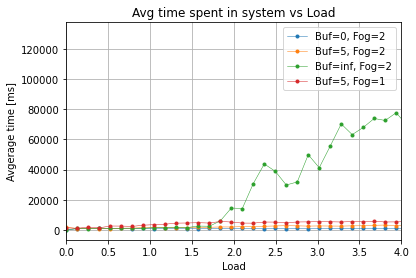
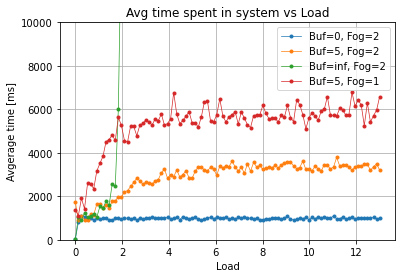
lab2 ex4c update

diff --git a/Lab1/ex3_sim.py b/Lab1/ex3_sim.py
@@ -16,6 +16,7 @@ if __name__ == '__main__':
     tot_time_sys = []
     tot_th_av_time_sys_list = []
     tot_pB_list = []
+    tot_av_buf_oc = []
     LOADS = np.linspace(1e-5,13,100).tolist()
     BUFFER_SIZES = [0,5,float('inf')]
     
@@ -26,6 +27,7 @@ if __name__ == '__main__':
         loss_pr = []
         time_sys = []
         pB_list = []
+        av_buf_oc = []
         th_av_time_sys_list = []
         
         for LOAD in LOADS:
@@ -49,11 +51,13 @@ if __name__ == '__main__':
             load_list.append(LOAD)
             loss_pr.append(data.toCloud/data.arr)
             time_sys.append(data.delay/data.dep)
+            av_buf_oc.append(data.bufferOccupancy/time)
             
         tot_loss_pr.append(loss_pr)
         tot_time_sys.append(time_sys)
         tot_th_av_time_sys_list.append(th_av_time_sys_list)
         tot_pB_list.append(pB_list)
+        tot_av_buf_oc.append(av_buf_oc)
         
     # Buf = 5, FOG_NODES = 1
     BUFFER_SIZE = 5
@@ -63,6 +67,7 @@ if __name__ == '__main__':
     loss_pr = []
     time_sys = []
     pB_list = []
+    av_buf_oc = []
     th_av_time_sys_list = []
     
     for LOAD in LOADS:
@@ -85,11 +90,13 @@ if __name__ == '__main__':
         load_list.append(LOAD)
         loss_pr.append(data.toCloud/data.arr)
         time_sys.append(data.delay/data.dep)
+        av_buf_oc.append(data.bufferOccupancy/time)
         
     tot_loss_pr.append(loss_pr)
     tot_time_sys.append(time_sys)
     tot_th_av_time_sys_list.append(th_av_time_sys_list)
     tot_pB_list.append(pB_list)
+    tot_av_buf_oc.append(av_buf_oc)
 
 
     #%% Plot statistics
@@ -100,7 +107,8 @@ if __name__ == '__main__':
               'Buf=inf, Fog=2', 'Buf=5, Fog=1']
     # Loss probability vs Load
     for i in range(len(tot_loss_pr)):
-        plt.plot(load_list, tot_loss_pr[i], '.-', linewidth=.7, c=colors[1][i], label=labels[i])
+        plt.plot(load_list, tot_loss_pr[i], '.-', linewidth=.7, 
+                 c=colors[1][i], label=labels[i])
     plt.grid()
     plt.legend()
     plt.xlabel("Load")
@@ -111,7 +119,8 @@ if __name__ == '__main__':
     
     # Loss probability vs Load (zoomed)
     for i in range(len(tot_loss_pr)):
-        plt.plot(load_list, tot_loss_pr[i], '.-', linewidth=0.5, c=colors[1][i], label=labels[i])
+        plt.plot(load_list, tot_loss_pr[i], '.-', linewidth=0.5, 
+                 c=colors[1][i], label=labels[i])
     plt.grid()
     plt.legend()
     plt.xlabel("Load")
@@ -123,14 +132,29 @@ if __name__ == '__main__':
 
     # Avg time spent in system vs Load
     for i in range(len(tot_time_sys)):
-        plt.plot(load_list, tot_time_sys[i], '.-', linewidth=0.5, c=colors[1][i], label=labels[i])
+        plt.plot(load_list, tot_time_sys[i], '.-', linewidth=0.5, 
+                 c=colors[1][i], label=labels[i])
     plt.grid()
     plt.legend()
     plt.xlabel("Load")
     plt.ylabel("Avgerage time [ms]")
-    plt.xlim([0,4])
+    #plt.xlim([0,4])
+    plt.ylim([0,10000])
     plt.title('Avg time spent in system vs Load')
     plt.show()
+    
+    # Avg buffer occupancy vs Load
+    for i in range(len(tot_av_buf_oc)):
+        plt.plot(load_list, tot_av_buf_oc[i], '.-', linewidth=0.5, 
+                 c=colors[1][i], label=labels[i])
+    plt.grid()
+    plt.legend()
+    plt.xlabel("Load")
+    plt.ylabel("Average Buffer Occupancy")
+    plt.ylim([0,7])
+    plt.title('Avg buffer occupancy vs Load')
+    plt.show()
+
 
 
 

diff --git a/Lab2/ex4c_sim.py b/Lab2/ex4c_sim.py
@@ -44,13 +44,13 @@ if __name__ == '__main__':
                       SERVICE_CLOUD,f_av_arrival, f_f)
     
     # insert constant service rate for all fog Nodes
-    s.CloudServerServTime = [200, 500]
-    s.CloudServerCosts = [1, 0.4]
+    s.CloudServerServTime = [200, 200]
+    s.CloudServerCosts = [1, 1]
     
     print_everything = False
     data, data_cloud, time, _, _ = s.simulate(print_everything)
     
-    print('A-B simulation')
+    print('A-A simulation')
     print('-'*40)
     print(f'Average Queueing Delay [ms] = {(data.delay + data_cloud.delay) / (data.dep + data_cloud.dep)}')
     print(f'Loss Probability = {data_cloud.toCloud/data.arr}')
